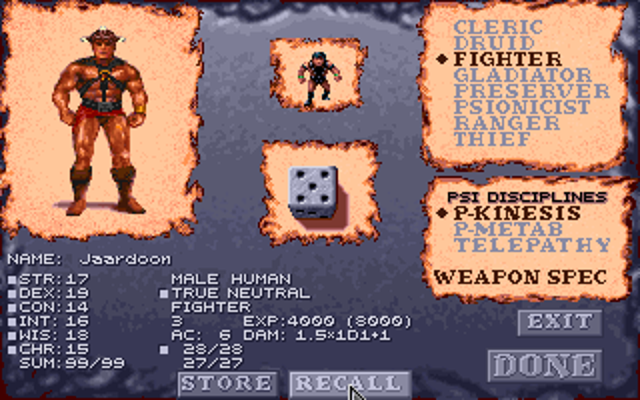
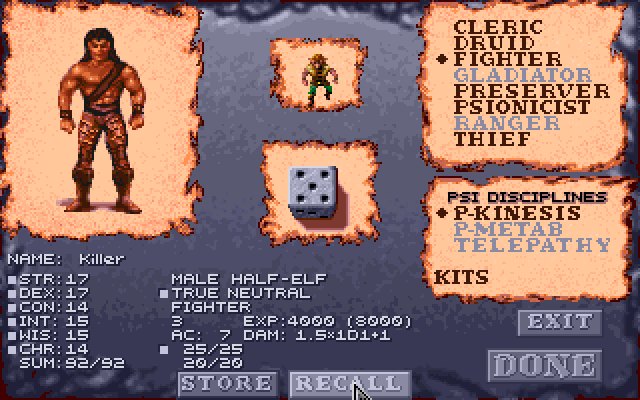
Retake the creation screen's STORE and RECALL screenshot (KITS, not WEAPON SPEC)
Claude-Session: https://claude.ai/code/session_01BNiWkhyZSJPYsN3zRrweVp

diff --git a/obsidian-edition/FEATURES.md b/obsidian-edition/FEATURES.md
@@ -751,7 +751,7 @@ scores and what the die's total allows (the `SUM:` line), the hit points and
 the PSP. So a good roll can be stored and the die tried again; if nothing
 better comes, RECALL puts the stored one back, AC and damage with it.
 
-![The creation screen with STORE and RECALL under the hit points and PSP, a stored roll recalled: SUM:99/99, 28/28 hit points](docs/creation-store-recall.png)
+![The creation screen with STORE and RECALL under the hit points and PSP, a stored roll recalled: SUM:92/92, 25/25 hit points; KITS below the psionic disciplines](docs/creation-store-recall.png)
 
 Changing the race, sex, classes or kit forgets the stored roll (its hit
 points were rolled for those), even if they are changed back: RECALL then

diff --git a/CHANGELOG.md b/CHANGELOG.md
@@ -27,6 +27,8 @@ notes](PATCH-NOTES.md).
   say they follow the repository (a change since the current version is in them before its
   release); the front page's "What's new" has the latest release only; and the tests workflow
   runs when only `CHANGELOG.md` or `release-notes/` change, as the link tests read them.
+- `creation-store-recall.png` retaken: the creation screen as it is now, KITS where it showed the
+  WEAPON SPEC label the mod no longer draws (the spec is picked after DONE).
 
 ## Pull request #64 ([merged 2026-10-26](https://github.com/daaki85/darksun-obsidian-edition/pull/64))
 
